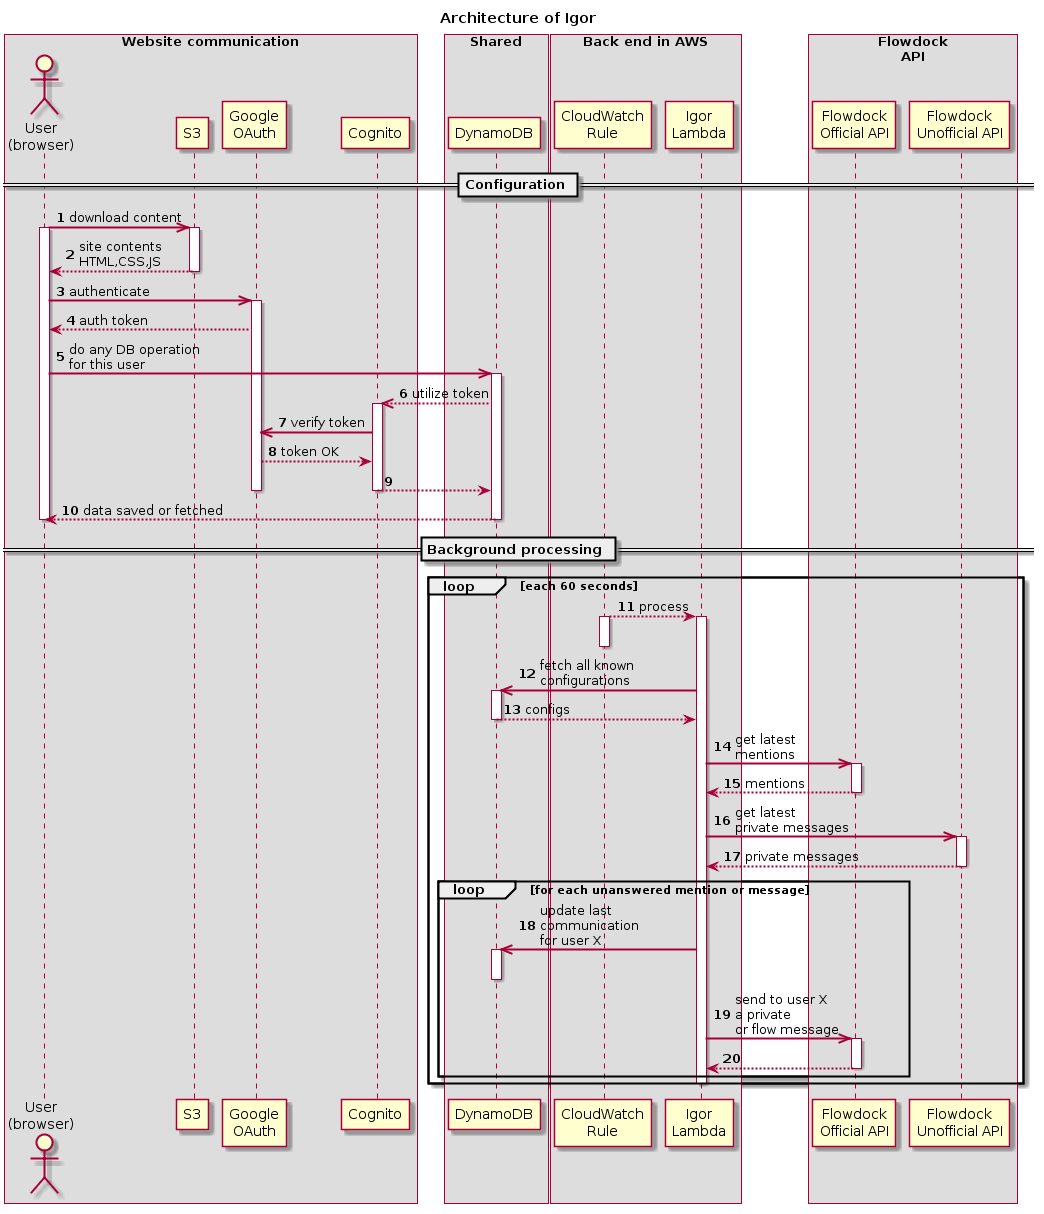
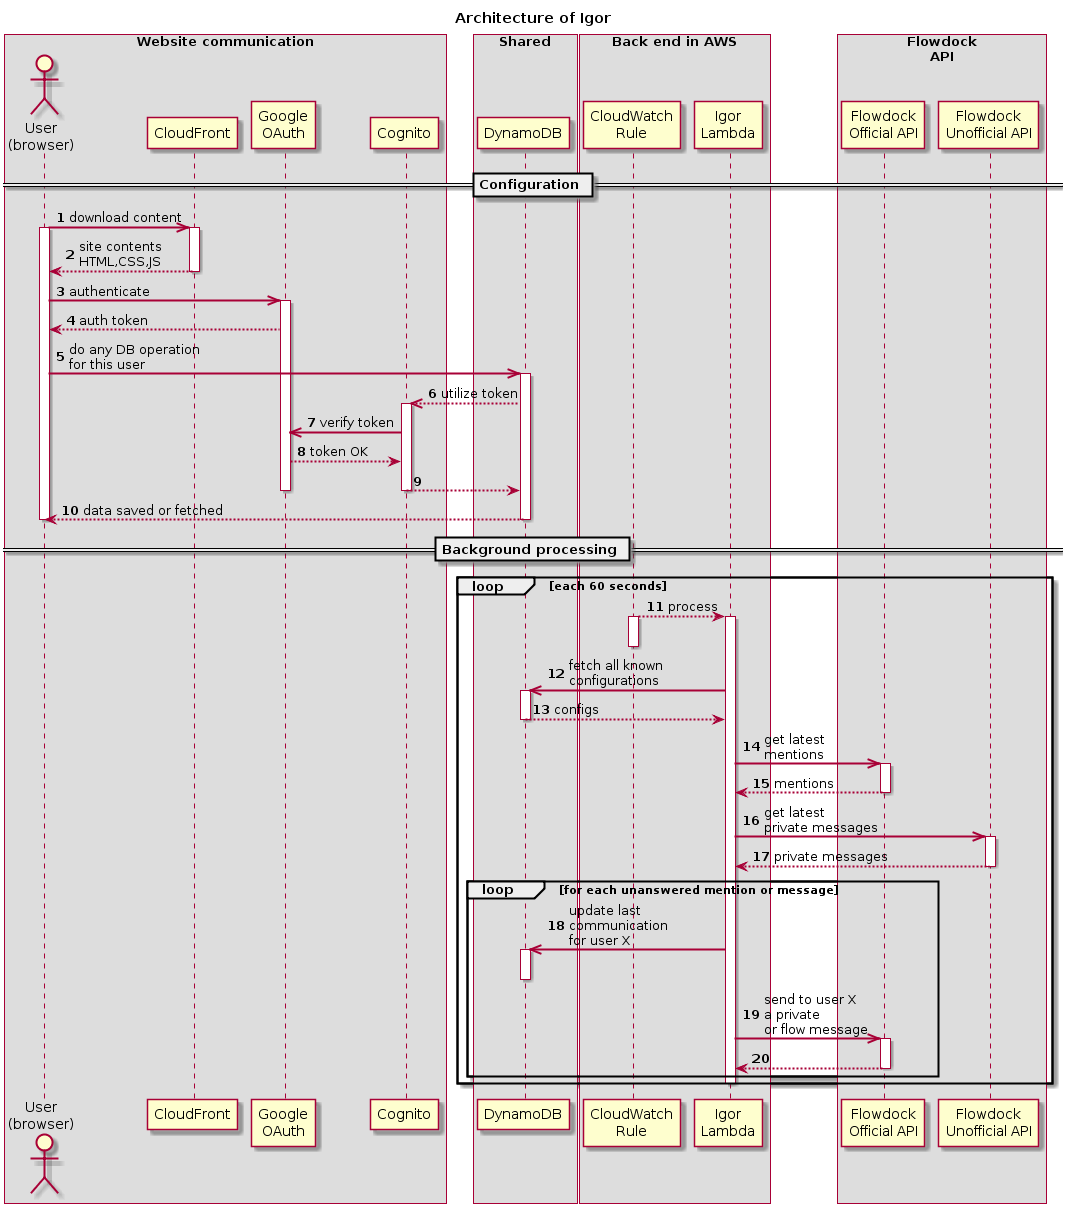
Utilizing CloudFront with Amazon ACM certificates

diff --git a/README.md b/README.md
@@ -21,9 +21,11 @@ so we have to split the work
     - client ID of a Google+ API approved Google Dev Console application;
     - a Flowdock account (optional, unless you really want to use it and not just experiment with it).
 1. rename `personal.env.template` to `personal.env` and introduce adequate values, as explained in it
-2. run `cmd/main/cf/non_supported_pre.sh` to update the `personal.env`
-3. deploy to AWS with `make form`
-4. run `cmd/main/cf/non_supported_post.sh` to update the `personal.env` with the values from CloudFormation (step 3)
+2. run `make prepare` to download extra tooling from internet to igor's dir
+3. run `cmd/main/cf/non_supported_pre.sh` to update the `personal.env`
+    - open your email and **approve requested certificate**
+4. deploy to AWS with `make form` (take note: this will take awhile)
+5. run `cmd/main/cf/non_supported_post.sh` to do finishing steps in configuration and deploy the site
 
 From this point on you can modify HTML and do `make deploy-site` to replace the cloud.
 
